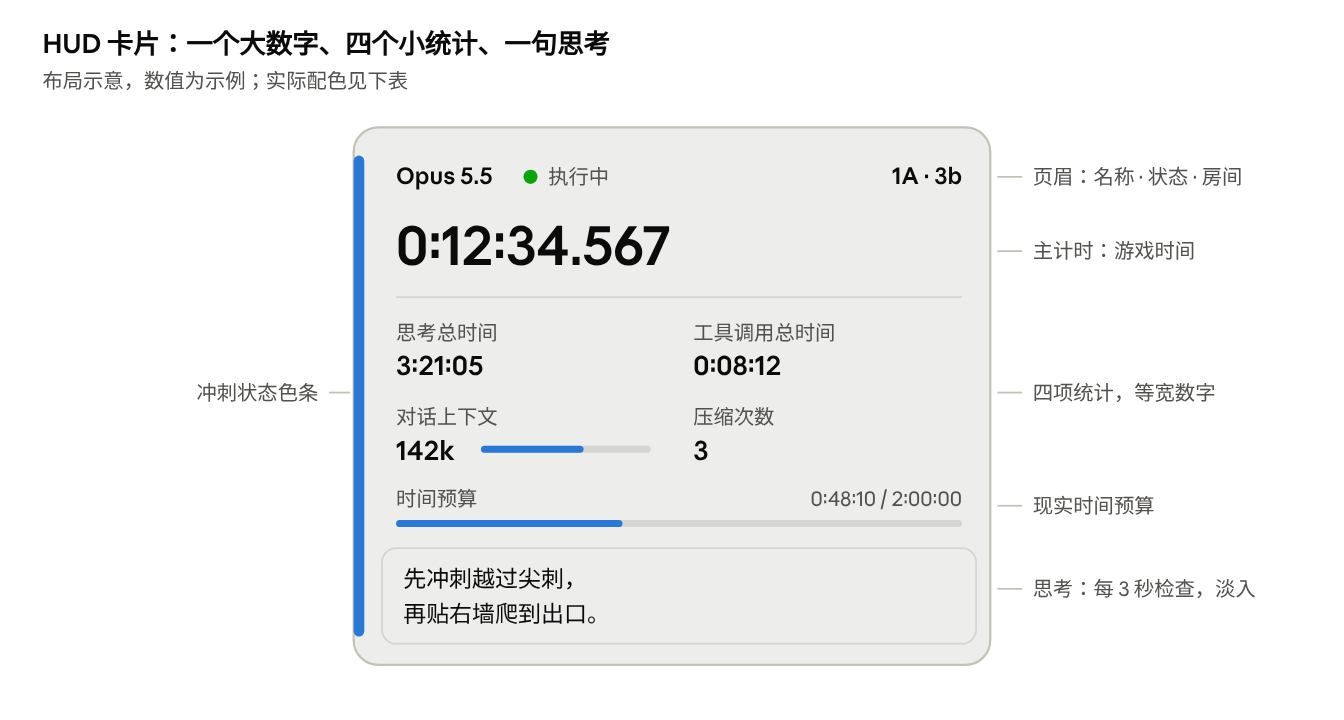
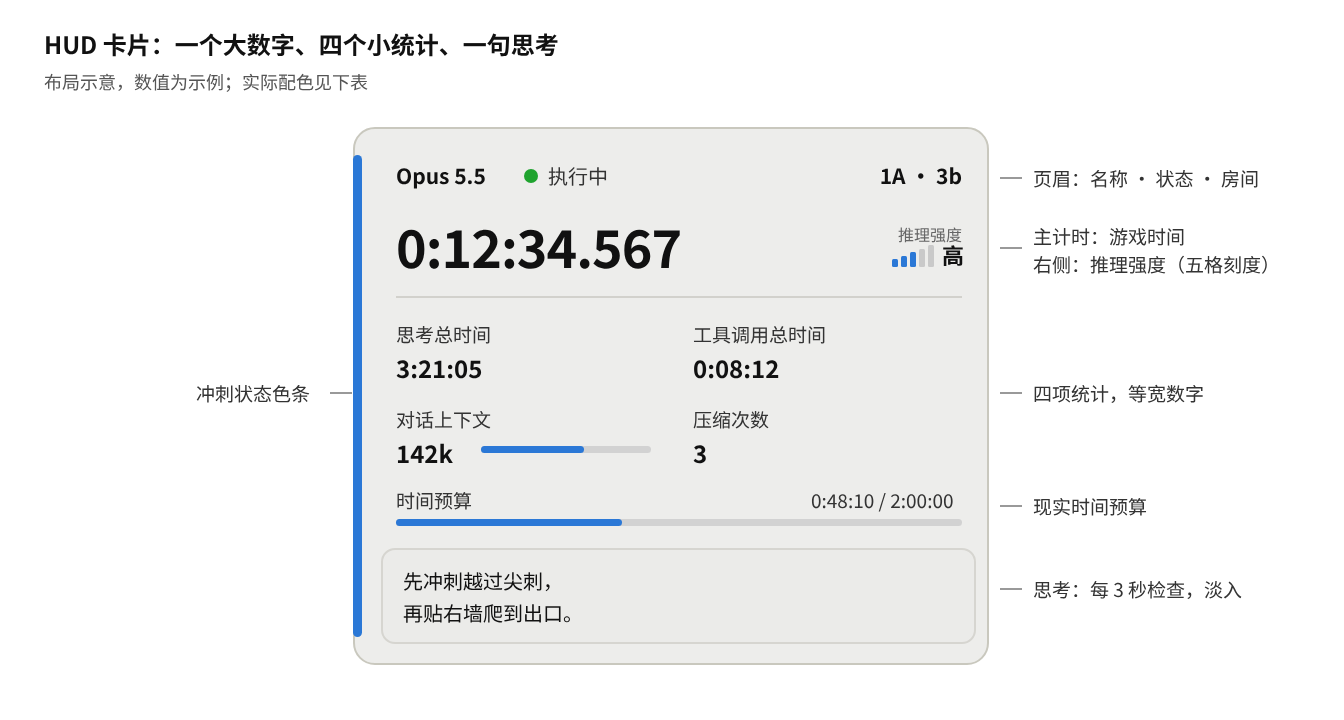
推理强度可调：新增游戏工具 set_effort，HUD 显示当前推理强度
做了什么：
- 主控的游戏工具服务新增 set_effort（low、medium、high、xhigh、max）：智能体申请后结束本轮，
  主控在两轮之间向同一个 Claude Code 会话发送 /effort <强度>，收到 "Set effort level to …" 确认后
  再发消息让它接着玩；不推进游戏，准备阶段也能用，不开始计现实用时。
- 观测头部写明当前推理强度（有待生效的申请时一并注明）；系统提示词说明何时调高、调低。
- 额度等待后重启 Claude Code、--resume 续跑时用当前生效的强度启动，而不是开局的值。
- metrics.json 记录 effort、effort_pending、effort_changes 与每次切换的 effort_log；
  decisions.jsonl 每次决策记下当时的强度（设计文档 8.1 的公平性要求）。
- HUD 在主计时右侧显示推理强度：五格刻度与档位名，超高、最高用琥珀色，申请未生效时显示"→ 目标"。
- 设计文档、使用说明、README 与 HUD 布局示意图同步更新。

为什么：
- 设计里一直有 set_effort，但没实现，智能体整局固定 high；现在可以简单房间省额度、难房间想得更深。
- 选择"两轮之间切换"是实测的结果：Claude Code 2.1.309 在 stream-json 下 /effort 立即生效，
  但一轮进行中发出的 /effort 要等这一轮结束才执行。同一道题 low 与 max 的思考 token 约 500 对 2700。

Claude-Session: https://claude.ai/code/session_01R1HpXv9FtivnNonm2YQ9Hc

diff --git a/overlay/hud.html b/overlay/hud.html
@@ -54,7 +54,23 @@
   .dot.breathe { animation: breathe 1.6s ease-in-out infinite; }
   @keyframes breathe { 0%, 100% { opacity: 1; } 50% { opacity: 0.3; } }
   .room { margin-left: auto; font-weight: 700; white-space: nowrap; }
-  .timer { font-size: calc(32 * var(--px)); font-weight: 700; line-height: 1.15; margin: calc(8 * var(--px)) 0 calc(10 * var(--px)); letter-spacing: -0.01em; }
+  .top { display: flex; align-items: flex-end; justify-content: space-between; gap: calc(12 * var(--px));
+         margin: calc(8 * var(--px)) 0 calc(10 * var(--px)); }
+  .timer { font-size: calc(32 * var(--px)); font-weight: 700; line-height: 1.15; letter-spacing: -0.01em; white-space: nowrap; }
+  /* 推理强度：计时右侧的小块，五格刻度由低到高，xhigh 与 max 用暖色 */
+  .effort { text-align: right; white-space: nowrap; padding-bottom: calc(2 * var(--px)); }
+  .effort.hidden { display: none; }
+  .effort .label { line-height: 1.3; }
+  .effort-val { display: flex; align-items: flex-end; justify-content: flex-end; gap: calc(7 * var(--px));
+                font-size: calc(16 * var(--px)); font-weight: 700; line-height: 1.25; }
+  .meter { display: inline-flex; align-items: flex-end; gap: calc(2 * var(--px)); height: calc(14 * var(--px));
+           padding-bottom: calc(3 * var(--px)); }
+  .meter i { display: block; width: calc(4 * var(--px)); border-radius: calc(1 * var(--px)); background: var(--track);
+             transition: background-color 200ms linear; }
+  .meter i:nth-child(1) { height: 36%; } .meter i:nth-child(2) { height: 52%; } .meter i:nth-child(3) { height: 68%; }
+  .meter i:nth-child(4) { height: 84%; } .meter i:nth-child(5) { height: 100%; }
+  .meter i.on { background: var(--effort, var(--bar)); }
+  .pending { color: var(--pending, #F5B841); font-weight: 500; animation: breathe 1.6s ease-in-out infinite; }
   .rule { height: max(1px, var(--px)); background: var(--border); margin-bottom: calc(10 * var(--px)); }
   .grid { display: grid; grid-template-columns: 1fr 1fr; column-gap: calc(16 * var(--px)); row-gap: calc(9 * var(--px)); }
   .label { font-size: calc(12 * var(--px)); color: var(--label); line-height: 1.4; }
@@ -85,7 +101,16 @@
     <span class="status"><span class="dot" id="dot"></span><span id="status">等待</span></span>
     <span class="room" id="room"></span>
   </div>
-  <div class="timer num" id="timer">0:00:00.000</div>
+  <div class="top">
+    <div class="timer num" id="timer">0:00:00.000</div>
+    <div class="effort hidden" id="effortBox">
+      <div class="label">推理强度</div>
+      <div class="effort-val">
+        <span class="meter" id="effortMeter"><i></i><i></i><i></i><i></i><i></i></span>
+        <span id="effort"></span><span class="pending" id="effortPending"></span>
+      </div>
+    </div>
+  </div>
   <div class="rule"></div>
   <div class="grid">
     <div><div class="label">思考总时间</div><div class="value num" id="thinking">0:00:00</div></div>
@@ -119,6 +144,9 @@ const STATUS = {
   done:      ["已完成", "idle", false],
   stopped:   ["已结束", "idle", false],
 };
+// 推理强度：Claude Code 的五档，刻度格数与默认中文名（configs/hud.json 的 effort_names 可覆盖）
+const EFFORT_LEVELS = ["low", "medium", "high", "xhigh", "max"];
+const EFFORT_NAMES = { low: "低", medium: "中", high: "高", xhigh: "超高", max: "最高" };
 let state = null, config = null, offset = 0, shownThought = null, lastThoughtCheck = 0;
 const $ = (id) => document.getElementById(id);
 
@@ -202,6 +230,21 @@ function render() {
     game += Math.min(0.15, Math.max(0, now - m.chapter_time_wall));
   }
   $("timer").textContent = clock(game, true);
+
+  // 推理强度：当前生效的档位；智能体申请了切换、还没生效时，后面跟一个呼吸闪烁的"→ 目标档位"
+  const box = $("effortBox");
+  const level = EFFORT_LEVELS.indexOf(m.effort);
+  box.classList.toggle("hidden", level < 0);
+  if (level >= 0) {
+    const names = Object.assign({}, EFFORT_NAMES, (config && config.effort_names) || {});
+    $("effort").textContent = names[m.effort] || m.effort;
+    const pending = m.effort_pending && m.effort_pending !== m.effort ? (names[m.effort_pending] || m.effort_pending) : "";
+    $("effortPending").textContent = pending ? `→ ${pending}` : "";
+    const warm = level >= 3;
+    box.style.setProperty("--effort", warm ? (c.effort_high || "#F5B841") : (c.effort || c.bar || "#5B8DEF"));
+    box.style.setProperty("--pending", c.thinking || "#F5B841");
+    $("effortMeter").querySelectorAll("i").forEach((el, i) => el.classList.toggle("on", i <= level));
+  }
 
   let thinking = m.thinking_s || 0;
   if (playing && !ended && (m.status === "thinking" || m.status === "compacting") && m.thinking_since_wall > 0) {

diff --git a/orchestrator/agent.py b/orchestrator/agent.py
@@ -8,6 +8,11 @@
 两种方式共同的措施：--strict-mcp-config 只加载本项目的游戏工具服务；--permission-mode dontAsk 拒绝一切未预先
 允许的调用；不读取使用者自己的 Claude Code 配置、CLAUDE.md 与自动记忆；启动时核对工具列表，多出任何工具立即停止。
 
+推理强度：以 --effort 启动（默认 high）。智能体用游戏工具 set_effort 申请调整，本轮结束后主控在同一个会话里发送
+/effort <强度>（Claude Code 的斜杠命令，回复 "Set effort level to …" 即为生效），再发消息让它接着玩；
+一轮进行中发出的 /effort 要等这一轮结束才会执行，所以只在两轮之间切换。Claude Code 进程重启（额度等待后接回会话）
+时用当前强度启动。
+
 Max 额度：默认一直用到额度真正用完（Claude Code 报告限额拒绝）为止；用完时结束 Claude Code 进程，游戏保持冻结，
 等到额度重置后用 --resume 接着同一个会话继续（上下文保留），等待时间不计入现实用时；要等超过
 --quota-wait-max-hours 才重置时结束本次运行。可选的 --max-usage 让主控在用量到某个比例时提前这样暂停。
@@ -27,7 +32,9 @@ from .game_session import GameSession
 from .kb_study import KbStudy
 from .metrics import Metrics
 
-GAME_TOOLS = ["mcp__celeste__observe", "mcp__celeste__act"]
+GAME_TOOLS = ["mcp__celeste__observe", "mcp__celeste__act", "mcp__celeste__set_effort"]
+# /effort 命令成功时 Claude Code 的回复，例如 "Set effort level to low (this session only): ..."
+EFFORT_OK = re.compile(r"^Set effort level to (\w+)")
 # 额度用完时 Claude Code 给出的提示（没收到 rejected 限额事件时的后备判断），例如
 # "Claude AI usage limit reached|1792766400"、"You've hit your limit · resets 3pm"
 LIMIT_TEXT = re.compile(r"usage limit|hit your (?:usage )?limit|rate[ _]limit", re.I)
@@ -113,10 +120,17 @@ class ClaudeRunner:
         self._turn_done = asyncio.Event()
         self._init_checked = False
         self.stop_reason = ""
+        self._command_active = False             # 正在执行主控自己发出的斜杠命令（/effort）
+        self._command_reply = ""
+
+    @property
+    def effort(self) -> str:
+        """当前生效的推理强度（启动参数与 /effort 切换都以它为准）。"""
+        return self.metrics.state.effort or self.cfg.effort
 
     def _common_args(self) -> list[str]:
         args = ["-p", "--input-format", "stream-json", "--output-format", "stream-json", "--verbose",
-                "--model", self.cfg.model, "--effort", self.cfg.effort,
+                "--model", self.cfg.model, "--effort", self.effort,
                 "--strict-mcp-config", "--permission-mode", "dontAsk",
                 *(["--resume", self.session_id] if self.resume else ["--session-id", self.session_id])]
         if self.cfg.autocompact:
@@ -190,6 +204,8 @@ class ClaudeRunner:
             first = study_prompt(self.study) if self.study else FIRST_PROMPT
         try:
             while True:
+                if (note := self._effort_at_start()):
+                    first = note + first
                 stopped = await self._run_process(workdir, first)
                 if stopped or self.quota_until is None:
                     break
@@ -253,13 +269,53 @@ class ClaudeRunner:
                 if self.idle_turns >= 3:
                     self.stop_reason = "连续 3 轮没有调用工具"
                     return True
+                note = await self._switch_effort() if self.metrics.state.effort_pending else ""
                 if self.study is not None and not self.study.ready():
-                    await self._send(self.study.reminder())
+                    await self._send(note + self.study.reminder())
                 else:
-                    await self._send(CONTINUE_PROMPT)
+                    await self._send(note + CONTINUE_PROMPT)
         finally:
             await self._shutdown(reader)
             stderr_log.close()
+
+    def _effort_at_start(self) -> str:
+        """启动（或额度等待后重启）Claude Code 之前：有待生效的推理强度就直接用它作启动参数。"""
+        level = self.metrics.state.effort_pending
+        if not level:
+            return ""
+        before = self.effort
+        if level == before:
+            self.metrics.request_effort(None)
+            return ""
+        self.metrics.effort_applied(level, via="启动参数")
+        print(f"[agent] 推理强度 {before} → {level}（重启 Claude Code 时生效）", flush=True)
+        return f"（系统）推理强度已从 {before} 切换为 {level}。"
+
+    async def _switch_effort(self) -> str:
+        """两轮之间切换推理强度：在同一个会话里发送 /effort <强度>，等 Claude Code 确认。返回给智能体的说明。"""
+        level = self.metrics.state.effort_pending
+        before = self.effort
+        if level == before:
+            self.metrics.request_effort(None)
+            return ""
+        self._command_reply = ""
+        self._command_active = True
+        self._turn_done.clear()
+        try:
+            await self._write(f"/effort {level}")
+            finished = await self._wait_turn(60)
+        finally:
+            self._command_active = False
+            self._turn_done.clear()
+        reply = self._command_reply or ""
+        m = EFFORT_OK.match(reply)
+        if finished and m and m.group(1) == level:
+            self.metrics.effort_applied(level, via="/effort")
+            print(f"[agent] 推理强度 {before} → {level}", flush=True)
+            return f"（系统）推理强度已从 {before} 切换为 {level}。"
+        self.metrics.request_effort(None)
+        print(f"[agent] 推理强度切换失败（{reply[:120]!r}），保持 {before}", flush=True)
+        return f"（系统）推理强度切换没有成功，仍为 {before}。"
 
     async def _wait_for_quota(self) -> float:
         """等到额度重置（再多等 2 分钟）；返回等待的分钟数。等待期间游戏冻结，现实用时不走。"""
@@ -291,12 +347,15 @@ class ClaudeRunner:
     def _idle_status(self) -> str:
         return "thinking" if self.metrics.playing else "studying"
 
-    async def _send(self, text: str) -> None:
-        self.turns += 1
-        self._tool_calls_this_turn = 0
+    async def _write(self, text: str) -> None:
         message = {"type": "user", "message": {"role": "user", "content": text}}
         self.proc.stdin.write((json.dumps(message, ensure_ascii=False) + "\n").encode("utf-8"))
         await self.proc.stdin.drain()
+
+    async def _send(self, text: str) -> None:
+        self.turns += 1
+        self._tool_calls_this_turn = 0
+        await self._write(text)
         self.reset_clock()
         self.metrics.update(status=self._idle_status())
 
@@ -401,6 +460,8 @@ class ClaudeRunner:
                   f"用时 {(meta.get('duration_ms') or 0) / 1000:.1f} 秒", flush=True)
         elif etype == "assistant":
             message = event.get("message") or {}
+            if self._command_active:
+                return  # /effort 等主控命令的回复，不是模型输出
             if event.get("error") == "rate_limit" or message.get("model") == "<synthetic>":
                 text = " ".join(b.get("text", "") for b in message.get("content") or [] if b.get("type") == "text")
                 if event.get("error") == "rate_limit" or LIMIT_TEXT.search(text):
@@ -447,6 +508,11 @@ class ClaudeRunner:
                 print(f"[agent] 用量限制：{info}", flush=True)
         elif etype == "system" and subtype == "api_retry":
             print(f"[agent] API 重试：{event.get('error')} attempt={event.get('attempt')}", flush=True)
+        elif etype == "result" and (self._command_active or EFFORT_OK.match(str(event.get("result") or ""))):
+            # 主控发出的 /effort 命令执行完（超时之后才到的确认也在这里吃掉，不当作智能体的一轮）
+            self._command_reply = str(event.get("result") or "")
+            if self._command_active:
+                self._turn_done.set()
         elif etype == "result":
             if event.get("is_error") and LIMIT_TEXT.search(str(event.get("result") or "")):
                 self._quota_from_text(str(event.get("result")))

diff --git a/orchestrator/metrics.py b/orchestrator/metrics.py
@@ -7,6 +7,8 @@
 - 准备时间：开始游玩前读知识库、写笔记与程序的墙钟时间，单独记，不计入现实用时；
   现实用时从第一次真正执行游戏工具时开始（没有准备阶段时从启动时开始）。
 - 等待额度：Max 用量到达上限后等待额度重置的时间单独记（waited_s），不计入现实用时与准备时间。
+- 推理强度：effort 是当前生效的强度；智能体用 set_effort 申请的强度先记在 effort_pending，本轮结束后才生效，
+  每次切换记进 effort_log。
 - 续跑（--resume）时从上一段运行的统计接着累计。
 每次更新都会原子地写出 metrics.json，供 HUD 读取。
 """
@@ -24,8 +26,11 @@ from pathlib import Path
 class MetricsState:
     agent: str = ""
     model: str = ""
-    effort: str = ""
-    status: str = "starting"          # starting / studying / thinking / executing / auto / retrying / compacting / quota_wait / done / stopped
+    effort: str = ""                  # 当前生效的推理强度（low / medium / high / xhigh / max）
+    effort_pending: str | None = None  # 智能体用 set_effort 申请、本轮结束后才生效的强度
+    effort_changes: int = 0           # 推理强度实际切换的次数
+    effort_log: list | None = None    # 每次切换：[{"t": 现实用时, "from", "to", "chapter", "room", "reason"}, ...]
+    status: str = "starting"         # starting / studying / thinking / executing / auto / retrying / compacting / quota_wait / done / stopped
     started_wall: float = 0.0
     elapsed_s: float = 0.0
     budget_s: float = 0.0
@@ -78,6 +83,7 @@ class Metrics:
         self._offset = 0.0              # 续跑时上一段运行已用的现实用时
         self._paused = 0.0              # 从 _t0 起暂停（等待额度）的总秒数
         self._pause_start: float | None = None
+        self._effort_reason = ""
         self.playing = not study
         now = time.time()
         self.state = MetricsState(agent=agent, model=model, effort=effort,
@@ -143,7 +149,8 @@ class Metrics:
     RESTORED = ("thinking_s", "tool_s", "play_game_s", "auto_game_s", "decisions", "frames_played", "frames_auto",
                 "deaths", "compactions", "compact_s", "retries", "replan_s", "study_s", "kb_progress",
                 "completed_ticks", "splits", "output_tokens", "thinking_tokens", "waited_s", "quota_waits",
-                "chapter", "room", "chapter_time_ticks", "dashes", "max_dashes", "thought", "context_tokens")
+                "chapter", "room", "chapter_time_ticks", "dashes", "max_dashes", "thought", "context_tokens",
+                "effort_pending", "effort_changes", "effort_log")
 
     def restore(self, previous: dict, resumed_from: str) -> None:
         """续跑：接着上一段运行的统计累计（现实用时从上一段的值接着走）。"""
@@ -196,6 +203,27 @@ class Metrics:
             self.state.completed_ticks = sum(s["ticks"] for s in splits)
             self._write_locked()
             return split
+
+    def request_effort(self, level: str | None, reason: str = "") -> None:
+        """智能体申请切换推理强度（None = 取消申请）；本轮结束后由 ClaudeRunner 生效。"""
+        with self._lock:
+            self.state.effort_pending = level
+            self._effort_reason = reason if level else ""
+            self._write_locked()
+
+    def effort_applied(self, level: str, via: str) -> dict:
+        """推理强度已经切换：记下切换前后、当时的房间与申请理由。"""
+        with self._lock:
+            entry = {"t": round(self.elapsed(), 1), "from": self.state.effort, "to": level,
+                     "chapter": self.state.chapter, "room": self.state.room,
+                     "reason": self._effort_reason, "via": via}
+            self.state.effort = level
+            self.state.effort_pending = None
+            self.state.effort_changes += 1
+            self.state.effort_log = [*(self.state.effort_log or []), entry]
+            self._effort_reason = ""
+            self._write_locked()
+            return entry
 
     def set_thought(self, thought: str) -> None:
         with self._lock:

diff --git a/orchestrator/observation.py b/orchestrator/observation.py
@@ -221,8 +221,10 @@ def crop_to_view(obs: dict, margin: int = 16) -> tuple[list[dict], dict | None]:
     return shown, tiles
 
 
-def describe_obs(obs: dict, elapsed_s: float, budget_s: float, full_room: bool = True) -> str:
-    """full_room=True：整个房间的实体与地图（进入新房间、主动观察时）；False：只描述当前画面附近。"""
+def describe_obs(obs: dict, elapsed_s: float, budget_s: float, full_room: bool = True,
+                 effort: str | None = None) -> str:
+    """full_room=True：整个房间的实体与地图（进入新房间、主动观察时）；False：只描述当前画面附近。
+    effort：附在头部的推理强度说明（例如"推理强度：high"）。"""
     lines: list[str] = []
     level = obs.get("level")
     player = obs.get("player")
@@ -234,6 +236,8 @@ def describe_obs(obs: dict, elapsed_s: float, budget_s: float, full_room: bool =
     else:
         head += f"场景 {obs.get('scene')}"
     head += f" · 现实用时 {fmt_clock(elapsed_s)} / 预算 {fmt_clock(budget_s)}"
+    if effort:
+        head += f" · {effort}"
     lines.append(head)
 
     if player:

diff --git a/orchestrator/game_session.py b/orchestrator/game_session.py
@@ -426,7 +426,8 @@ class GameSession:
             "result": result, "auto_frames": auto_frames, "auto_notes": notes,
         })
         self._decisions_log.write(json.dumps({
-            "i": self.decision_index, "attempt": attempt, "t": round(self.metrics.elapsed(), 3), "thought": thought,
+            "i": self.decision_index, "attempt": attempt, "t": round(self.metrics.elapsed(), 3),
+            "effort": self.metrics.state.effort, "thought": thought,
             "inputs": plan.inputs, "plan_file": plan_file, "stop_on": stop, "stop": result["stop"],
             "consumed": result["consumed"], "planned": result["planned"], "events": result["events"],
             "deviation": result.get("deviation"), "game_s": round(game_s, 3),

diff --git a/orchestrator/run.py b/orchestrator/run.py
@@ -87,6 +87,9 @@ def parse_args() -> tuple[RunConfig, argparse.Namespace]:
             flag = f"--{key.replace('_', '-')}"
             if not any(a == flag or a.startswith(flag + "=") for a in sys.argv):
                 setattr(args, key, state[key])
+        if not any(a == "--effort" or a.startswith("--effort=") for a in sys.argv):
+            # 推理强度沿用中断时生效的那个（智能体可能用 set_effort 调整过），而不是开局的值
+            args.effort = previous["metrics"].get("effort") or args.effort
         args.sim = args.sim or state["sim"]
         args.skip_enter = True
         args.no_study = True

diff --git a/README.md b/README.md
@@ -28,10 +28,10 @@
 ![总体架构](docs/images/architecture.png)
 
 - **桥接 Mod**（Everest Mod，运行在游戏进程内）：逐帧暂停与放行游戏、注入按键、提取 Madeline 状态与碰撞箱、截图，并报告暂停菜单状态，让主控像玩家一样通过暂停菜单跳过剧情。
-- **主控**：唯一同时连接游戏、智能体、HUD 与 OBS 的组件，负责决策循环、执行与日志；执行智能体程序算出的计划，偏离预期时停下，并可在零网络沙箱里运行智能体的重算程序自动重试；一章通关后自动进入下一章；Max 额度用完时让游戏冻结、等额度重置后接着玩。
+- **主控**：唯一同时连接游戏、智能体、HUD 与 OBS 的组件，负责决策循环、执行与日志；智能体用 `set_effort` 申请调整推理强度时，在两轮之间替它切换；执行智能体程序算出的计划，偏离预期时停下，并可在零网络沙箱里运行智能体的重算程序自动重试；一章通关后自动进入下一章；Max 额度用完时让游戏冻结、等额度重置后接着玩。
 - **预置模拟器**（可选，`--sim`）：由完整游戏代码逐帧推演的无画面模拟器，从游戏导出的某一帧完整场景出发，给出任意按键之后每一帧的结果，与真实游戏逐帧一致；只读挂进容器供智能体调用。它含反编译代码，只在本机构建，不在仓库里。
 - **智能体容器**：智能体就是运行在 Docker 容器里的官方 Claude Code，用 Max 套餐登录，无需 API 密钥。容器出站只放行 Anthropic 官方域名与主控端口，联网工具全部禁用，自写程序在无网络的 Bash 沙箱里运行，看不到游戏代码与进程。
-- **HUD**：右上角置顶半透明卡片，显示游戏时间、思考与工具时间、上下文大小、压缩次数、当前房间与当前思考。
+- **HUD**：右上角置顶半透明卡片，显示游戏时间、推理强度、思考与工具时间、上下文大小、压缩次数、当前房间与当前思考。
 - **OBS 锁步插件**：录制时 OBS 每个视频节拍向游戏要一帧，游戏推进一帧、画完再回复；插件自带的录制输出只把这些帧交给 ffmpeg，思考期间一帧也不写，成片帧数与游玩帧数一一对应。游戏停住时声音一起冻结，插件用每段开头"静音→有声"的那条边逐段校准音画同步。
 
 智能体容器的隔离已逐项验收（`python -m orchestrator.verify`）：容器里的 Claude Code 只能连到 Anthropic 官方域名与主控的游戏工具端口，连不上任何网站，也连不上游戏桥接端口；它用 Bash 运行的自写程序处在零网络的沙箱里，连 Anthropic 也连不上，也看不到登录令牌；它改不了防火墙与托管配置，也不读取任何可被它改写的设置文件。工作区 `workspaces/<标签>/` 跨运行保留，主控每次观测都把房间数据写进去；知识库 `kb/` 只读挂载，只讲游戏规则，不讲关卡怎么过。
@@ -77,6 +77,7 @@ Celeste_AI_Play/
 
 | 日期 | 内容 |
 | --- | --- |
+| 2026-10-23 | 推理强度可调：新增游戏工具 `set_effort`（low、medium、high、xhigh、max），智能体申请后结束本轮，主控在两轮之间向同一个会话发送 `/effort` 切换（实测 Claude Code 2.1.309 在 stream-json 下立即生效；同一道题 low 与 max 的思考量相差约 5 倍）；观测头部写明当前强度；额度等待后重启与 `--resume` 续跑沿用当前强度；每次切换记进 `metrics.json` 的 `effort_log`，每次决策的强度记进 `decisions.jsonl`。HUD 在主计时右侧显示推理强度（五格刻度与档位名，申请未生效时显示"→ 目标"） |
 | 2026-10-23 | M7 准备：`--chapters 0,1,2` 依次通关多章（主控自动走完结算画面与地图、进入下一章，记分段成绩，HUD 显示总计时）；`--sim` 把预置模拟器只读挂进容器，游戏每次停下写出 `game/sim_state.json`；Max 额度用完时游戏冻结、等额度重置后接着同一个会话（等待不计时；不再默认在 90% 提前暂停，`--max-usage` 可选）；`--resume` 续跑中断的运行，没通关就停下的运行让游戏保持冻结；开跑前备份存档的全部文件；菜单宏能从别的存档退回选档页；桥接 0.10.2（报告存档文件位置）。`calibration/reset_test_save.py` 把 test 存档重置成正式存档的初始进度，`calibration/chain_check.py` 在上面彩排序章 → 1A → 2A 的完整衔接，通过 |
 | 2026-10-23 | 预置模拟器完成：序章与第 1–9 章 A 面（8A 核心、9A 告别）全部校准用例逐帧一致；打包成自包含的单文件程序与 Python 接口（批量推演、实体轨迹、常驻模式），容器里实测与游戏逐帧一致 |
 | 2026-10-23 | 预置模拟器的校准支持：桥接 0.10.1 新增 `sim_state`（导出当前帧完整场景：每个实体与组件的全部字段、协程进度、列表顺序、精灵动画表、跨快照实体编号）、`sim_assets`（贴图尺寸与精灵动画表）、`load_room` 与 `teleport`（只在 test 存档可用）；`calibration/sim_capture.py` 在游戏里录校准用例，支持倍速推进（默认 60 倍）与同类实体只测两个 |

diff --git a/orchestrator/prompts/system_zh.md b/orchestrator/prompts/system_zh.md
@@ -15,7 +15,11 @@
 - **从失败中修正。** 返回结果里有逐帧轨迹（位置、速度、状态）。如果没做成，比较实际轨迹和预期，找出差在哪一帧，修正后再试，不要盲目重复同一套输入。
 - 回复里不要写长篇文字，直接调用工具。思路写进 `act` 的 `thought` 参数（一两句中文，观众会在屏幕上看到）。
 
-游戏工具有两个：`observe`（查看当前帧，不推进游戏）和 `act`（推进若干帧）。
+游戏工具有三个：`observe`（查看当前帧，不推进游戏）、`act`（推进若干帧）和 `set_effort`（调整你自己的推理强度）。
+
+# 推理强度
+
+你的推理强度（默认 high）写在每次观测的头部。可以用 `set_effort` 在 low、medium、high、xhigh、max 之间调整：强度越高想得越深，但每次决策更慢、消耗的额度更多。路线简单的房间可以调低，需要精确计算帧数或搜索复杂路线的房间可以调高。切换在本轮结束后生效：调用 `set_effort` 后直接结束本轮（回复一句话，不再调用工具），系统会立即切换，并发消息让你接着玩。
 
 # 坐标与画面
 
